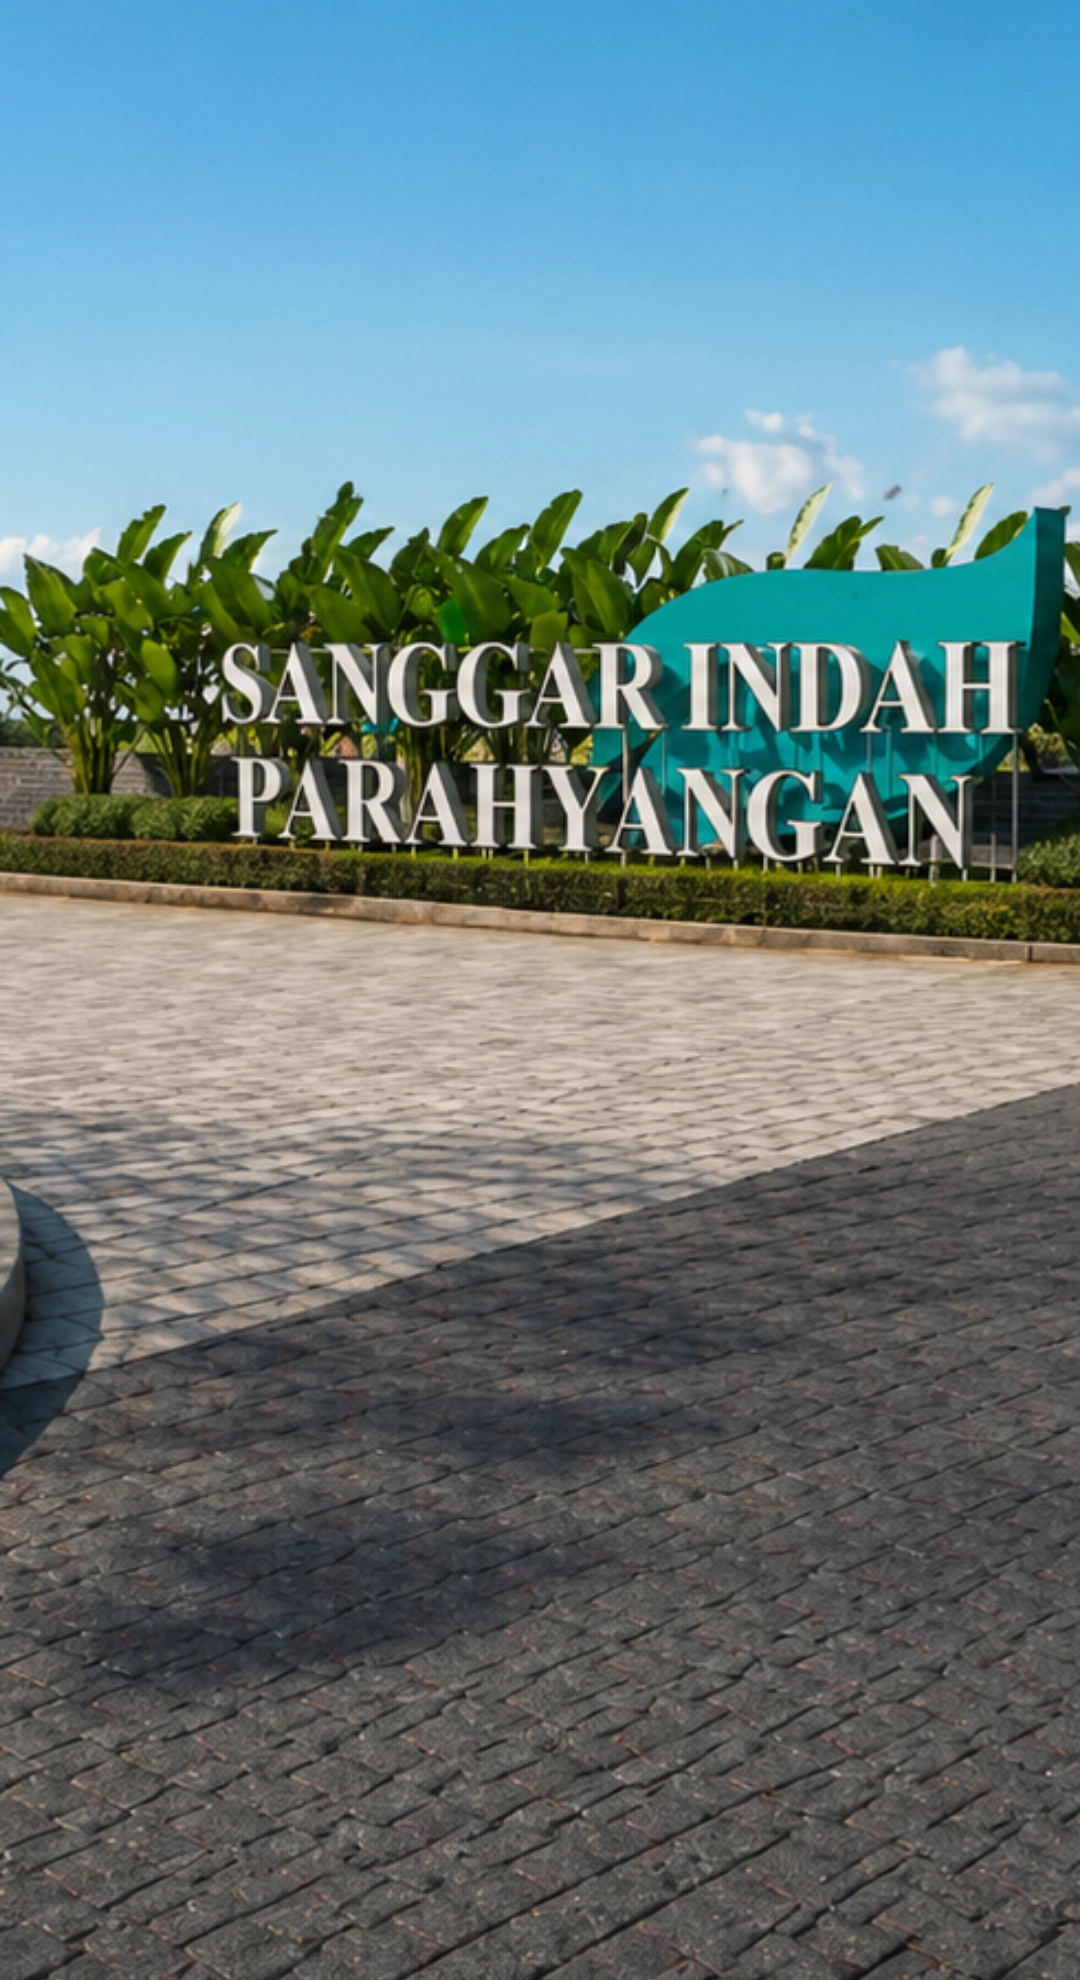
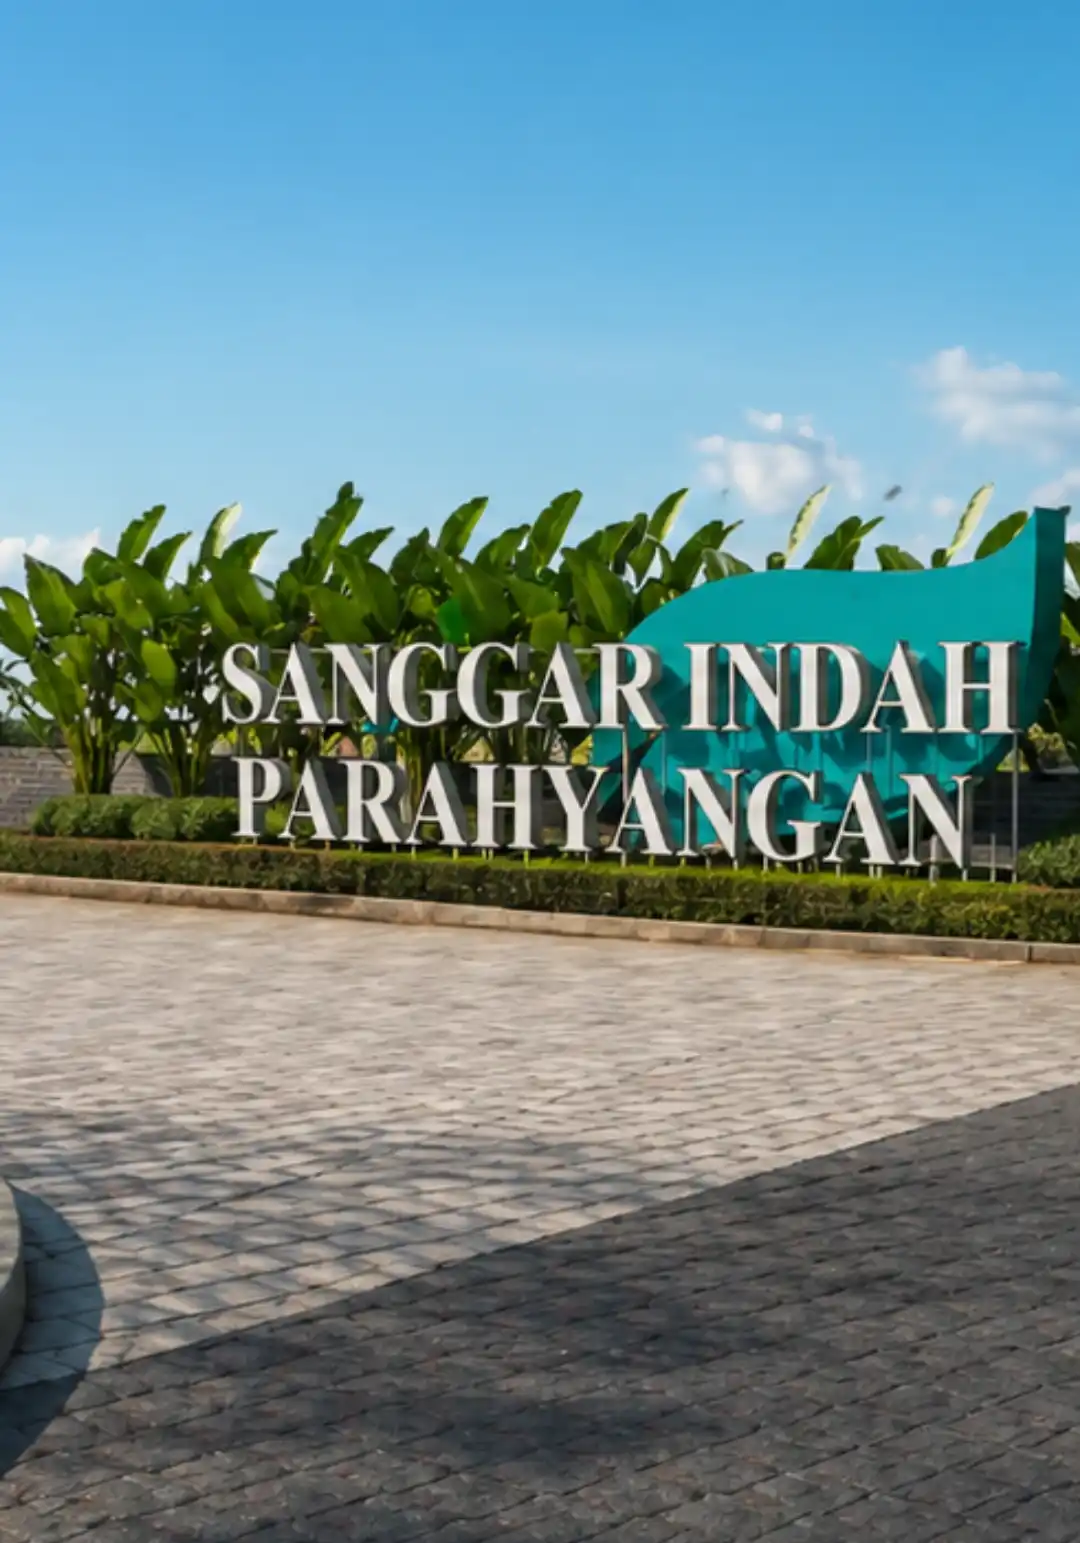
fix sesuatu

diff --git a/data/content.js b/data/content.js
@@ -50,6 +50,9 @@ export default {
     sub: 'Nikmati kenyamanan tinggal di hunian nyaman yang berada di lingkungan asri dan sejuk, dengan lokasi strategis di jantung pertumbuhan Bandung Barat',
     primaryTypeId: '22-60',
     primaryCta: 'Lihat Tipe Rumah',
+    image: '/assets/images/hero.webp',
+    imageMobile: '/assets/images/hero-mobile.webp',
+    heroMobile: '/assets/images/hero-mobile.webp',
   },
 
   about: {
@@ -113,12 +116,10 @@ export default {
 
   // Merged advantages: Reasons + Location + Invest + Demand
   advantages: [
-    { id: 'loc1', title: 'Dekat Kota Baru Parahyangan', desc: '', image: '/assets/images/fasilitas/KBP.webp' },
-    { id: 'loc2', title: 'Dekat Tol Padalarang', desc: '', image: '/assets/images/fasilitas/Gerbang-Tol-Padalarang-Timur.webp' },
-    { id: 'loc3', title: 'Dekat Stasiun KCIC', desc: '', image: '/assets/images/fasilitas/Stasiun KCIC.webp' },
-    { id: 'loc4', title: 'Dikelilingi Fasilitas Publik', desc: '', image: '/assets/images/fasilitas/IKEA KBP.webp' },
-    { id: 'inv1', title: 'Cicilan Flat', desc: '', image: '/assets/images/fasilitas/Cicilan Flat.webp' },
-    { id: 'inv2', title: 'One Gate System', desc: '', image: '/assets/images/signgate.webp' },
+    { id: 'loc1', title: 'Dekat KBP', desc: '', image: '/assets/images/fasilitas/logo kbp.webp' },
+    { id: 'loc2', title: 'Dekat Tol Padalarang', desc: '', image: '/assets/images/fasilitas/logo tol.webp' },
+    { id: 'loc3', title: 'Dekat WOOSH', desc: '', image: '/assets/images/fasilitas/logo woosh.webp' },
+    { id: 'loc4', title: '', desc: '', image: '/assets/images/fasilitas/logo fasilitas.webp' },
   ],
 
   // Merged stats: key numbers from Demand + Installment
@@ -126,6 +127,11 @@ export default {
     { id: 's1', stat: '15 mnt', title: 'Ke KBP & IKEA', desc: 'Berdampingan dengan kawasan hunian & bisnis yang terus tumbuh.' },
     { id: 's2', stat: '30 mnt', title: 'Ke Stasiun Whoosh', desc: 'Kehadiran KCIC mempercepat kenaikan nilai properti.' },
     { id: 's3', stat: '1 Jt-an', title: 'Cicilan Flat', desc: 'Rasa komersial, harga subsidi mulai 1 jutaan/bulan.' },
+  ],
+
+  banks: [
+    { name: 'BCA', image: '/assets/images/bank/bca.webp' },
+    { name: 'BTN', image: '/assets/images/bank/btn.webp' },
   ],
 
   locationSection: {
@@ -148,17 +154,9 @@ export default {
     { id: 'f1',  question: 'Siapa pengembang Sanggar Indah Parahyangan?', answer: 'Dikembangkan oleh PT Sanggar Duta Parahyangan, bagian dari Sanggar Indah Group yang telah berpengalaman lebih dari 30 tahun di bidang properti, dan terdaftar sebagai anggota Real Estate Indonesia (REI).' },
     { id: 'f2',  question: 'Penghargaan apa saja yang pernah diraih pengembang?', answer: '[Isi jawaban di sini — tim SIPAR perlu melengkapi daftar penghargaan resmi, karena tidak ditemukan publikasinya secara online]' },
     { id: 'f3',  question: 'Proyek apa saja yang sudah dibangun oleh pengembang ini?', answer: '[Isi jawaban di sini — tim SIPAR perlu melengkapi daftar proyek sebelumnya, karena portofolio lengkap tidak ditemukan publikasinya secara online]' },
-    { id: 'f4',  question: 'Berapa harga rumah di Sanggar Indah Parahyangan?', answer: 'Mulai dari 160 Jt-an untuk Tipe 22/60 hingga 300 Jt-an untuk Tipe 36/72, dengan cicilan flat mulai 1 jutaan per bulan.' },
-    { id: 'f5',  question: 'Berapa uang muka (DP) yang dibutuhkan?', answer: 'DP ringan dan bisa disesuaikan dengan kemampuan, tim kami bantu hitungkan skema yang paling cocok untuk Anda.' },
     { id: 'f6',  question: 'Bagaimana skema cicilannya?', answer: 'Cicilan flat sepanjang tenor tanpa naik-turun, sehingga lebih mudah direncanakan untuk keuangan keluarga.' },
     { id: 'f7',  question: 'Apakah bisa KPR meski belum punya slip gaji tetap?', answer: '[Isi jawaban di sini — perlu konfirmasi tim terkait jalur pengajuan untuk pekerja informal/wiraswasta]' },
-    { id: 'f8',  question: 'Bank apa yang bekerja sama untuk KPR?', answer: '[Isi jawaban di sini — perlu konfirmasi tim terkait daftar bank rekanan KPR yang aktif]' },
-    { id: 'f9',  question: 'Bagaimana cara mengajukan pembelian?', answer: 'Konsultasi kebutuhan lewat WhatsApp, survei lokasi, lalu lanjut ke proses booking dan pengajuan KPR bersama tim kami.' },
-    { id: 'f10', question: 'Jenis sertifikat rumahnya apa?', answer: '[Isi jawaban di sini — perlu konfirmasi tim terkait jenis sertifikat yang diterbitkan, mis. SHM]' },
-    { id: 'f11', question: 'Berapa lama proses dari booking sampai akad kredit?', answer: '[Isi jawaban di sini — perlu konfirmasi tim terkait estimasi waktu proses]' },
-    { id: 'f12', question: 'Kapan unit bisa ditempati setelah akad?', answer: '[Isi jawaban di sini — perlu konfirmasi tim terkait jadwal serah terima kunci]' },
-    { id: 'f13', question: 'Apakah lingkungan perumahan ini aman?', answer: 'Menerapkan One Gate System dengan akses masuk satu pintu, sehingga lingkungan lebih terkontrol dan nyaman untuk keluarga.' },
-    { id: 'f14', question: 'Apa saja fasilitas di sekitar perumahan?', answer: 'Dekat IKEA, XXI Cinema, rumah sakit, dan Parahyangan Golf, dengan akses ke Tol Padalarang dan Stasiun KCIC Whoosh.' },
+    { id: 'f8',  question: 'Apakah ada show unit/rumah contoh yang bisa dikunjungi?', answer: 'Ada' },
   ],
 
   finalCta: {

diff --git a/components/ReasonsCardsSection.vue b/components/ReasonsCardsSection.vue
@@ -2,29 +2,50 @@
   <section id="lokasi" class="relative bg-gradient-to-b from-white via-[#fffef5] to-white py-12 md:py-16">
     <div class="container mx-auto px-4 md:px-20">
       <!-- Part 1: Kenapa Harus -->
-      <h2 class="font-display font-semibold text-3xl md:text-4xl text-center text-[#142b20] mb-10">
-        Kenapa Harus Sanggar Indah Parahyangan?
-      </h2>
+      <div class="flex justify-center mb-10">
+        <img src="/assets/images/kenapa.webp" alt="Kenapa Sanggar Indah Parahyangan?"
+          class="h-auto w-[80%] sm:w-auto sm:max-w-xl md:max-w-2xl lg:max-w-3xl object-contain" />
+      </div>
 
-      <!-- Cards Grid with overlay text -->
-      <div class="grid grid-cols-2 md:grid-cols-3 lg:grid-cols-6 gap-4 mb-16">
-        <div v-for="(advantage, index) in content.advantages" :key="advantage.id" class="flex flex-col">
-          <!-- Image with overlay text -->
-          <div class="relative w-full aspect-square bg-gray-100 rounded-lg overflow-hidden group cursor-pointer">
-            <!-- Background Image -->
-            <img v-if="advantage.image" :src="advantage.image" :alt="advantage.title"
-              class="absolute inset-0 w-full h-full object-cover transition-transform duration-500 group-hover:scale-110" />
+      <!-- Cards & Mascot Section -->
+      <div class="flex flex-col lg:flex-row items-center justify-center gap-6 lg:gap-8 mb-16">
+        
+        <!-- Cards Grid -->
+        <div class="grid grid-cols-2 lg:grid-cols-4 gap-4 w-full flex-grow">
+          <div v-for="(advantage, index) in content.advantages" :key="advantage.id" 
+            class="group cursor-pointer bg-white rounded-3xl shadow-[0_8px_30px_rgb(0,0,0,0.06)] hover:shadow-[0_12px_35px_rgb(0,0,0,0.12)] hover:-translate-y-2 transition-all duration-300 ease-out p-4 md:p-6 flex flex-col items-center justify-between h-full border border-gray-50 overflow-hidden relative">
+            
+            <template v-if="advantage.title">
+              <!-- Image / Icon -->
+              <div class="w-20 h-20 md:w-28 md:h-28 mb-4 flex items-center justify-center">
+                <img v-if="advantage.image" :src="advantage.image" :alt="advantage.title"
+                  class="w-full h-full object-contain transition-transform duration-300 group-hover:scale-110" />
+              </div>
 
-            <!-- Solid overlay -->
-            <div class="absolute inset-0 bg-[#c9a84c]/30"></div>
+              <!-- Title -->
+              <div class="flex-grow flex items-center justify-center mb-4">
+                <h3 class="font-bold text-sm md:text-base text-center text-[#2A6D3A] leading-snug group-hover:text-[#1d4d29] transition-colors">
+                  {{ advantage.title }}
+                </h3>
+              </div>
 
-            <!-- Text overlay at center -->
-            <div class="absolute inset-0 flex items-center justify-center p-3">
-              <h3 class="font-bold text-xs md:text-sm text-center text-white leading-tight">
-                {{ advantage.title }}
-              </h3>
-            </div>
+              <!-- Bottom Dash -->
+              <div class="w-6 h-1 bg-[#F59E0B] rounded-full mt-auto transition-all duration-300 group-hover:w-10"></div>
+            </template>
+            
+            <template v-else>
+              <!-- Fit Image -->
+              <div class="w-full h-full flex items-center justify-center my-auto p-2">
+                <img v-if="advantage.image" :src="advantage.image" alt="Fasilitas"
+                  class="max-w-full max-h-full object-contain transition-transform duration-300 group-hover:scale-105" />
+              </div>
+            </template>
           </div>
+        </div>
+
+        <!-- Mascot -->
+        <div class="w-32 sm:w-40 md:w-48 lg:w-56 flex-shrink-0 mt-6 lg:mt-0 flex justify-center">
+          <img src="/assets/images/mascot.webp" alt="Maskot SIPAR" class="w-full h-auto drop-shadow-2xl" />
         </div>
       </div>
 
@@ -59,18 +80,7 @@
           </div>
         </div>
 
-        <!-- Title below image -->
-        <h2 class="font-display font-semibold text-3xl md:text-4xl text-center text-[#142b20] mt-8 mb-10">
-          {{ content.locationSection?.title || 'Lokasi di Pusat Pertumbuhan' }}
-        </h2>
 
-        <!-- Facilities List with borders -->
-        <div class="flex flex-wrap justify-center gap-x-8 gap-y-4 max-w-4xl mx-auto">
-          <div v-for="(facility, idx) in content.locationSection?.facilities || []" :key="idx"
-            class="w-full md:w-[calc(33.333%-1.35rem)] pb-4 border-b border-gray-200">
-            <p class="font-body text-sm uppercase tracking-wide text-gray-600">{{ facility }}</p>
-          </div>
-        </div>
       </div>
     </div>
 

diff --git a/components/WhatsAppFloatingButton.vue b/components/WhatsAppFloatingButton.vue
@@ -2,6 +2,7 @@
 import { ref, onMounted, onUnmounted } from 'vue';
 import { useContent } from '~/composables/useContent';
 import MemberGetMemberModal from './MemberGetMemberModal.vue';
+import KprTermsModal from './KprTermsModal.vue';
 
 const { wa } = useContent();
 const href = wa('konsultasi');
@@ -11,6 +12,8 @@ const isDesktop = ref(false);
 
 const isMenuOpen = ref(false);
 const isModalOpen = ref(false);
+const isKprModalOpen = ref(false);
+const kprModalTitle = ref('');
 
 const checkState = () => {
   if (typeof window === 'undefined') return;
@@ -27,6 +30,12 @@ const toggleMenu = () => {
 
 const openModal = () => {
   isModalOpen.value = true;
+  isMenuOpen.value = false;
+};
+
+const openKprModal = (title) => {
+  kprModalTitle.value = title;
+  isKprModalOpen.value = true;
   isMenuOpen.value = false;
 };
 
@@ -100,7 +109,31 @@ onUnmounted(() => {
             <span>Konsultasi Sekarang</span>
           </a>
 
-          <!-- Button 2: Isi Form Member Get Member -->
+          <!-- Button 2: Syarat KPR BCA -->
+          <button
+            type="button"
+            class="inline-flex items-center gap-2.5 font-body rounded-full bg-[#142B20] px-4 py-2.5 text-xs font-bold text-white shadow-lg hover:bg-[#0f1f17] transition-all whitespace-nowrap"
+            @click="openKprModal('Syarat KPR BCA')"
+          >
+            <svg class="w-4 h-4 fill-none stroke-current" viewBox="0 0 24 24" stroke="currentColor">
+              <path stroke-linecap="round" stroke-linejoin="round" stroke-width="2" d="M9 12h6m-6 4h6m2 5H7a2 2 0 01-2-2V5a2 2 0 012-2h5.586a1 1 0 01.707.293l5.414 5.414a1 1 0 01.293.707V19a2 2 0 01-2 2z" />
+            </svg>
+            <span>Syarat KPR BCA</span>
+          </button>
+
+          <!-- Button 3: Syarat KPR BTN -->
+          <button
+            type="button"
+            class="inline-flex items-center gap-2.5 font-body rounded-full bg-[#142B20] px-4 py-2.5 text-xs font-bold text-white shadow-lg hover:bg-[#0f1f17] transition-all whitespace-nowrap"
+            @click="openKprModal('Syarat KPR BTN')"
+          >
+            <svg class="w-4 h-4 fill-none stroke-current" viewBox="0 0 24 24" stroke="currentColor">
+              <path stroke-linecap="round" stroke-linejoin="round" stroke-width="2" d="M9 12h6m-6 4h6m2 5H7a2 2 0 01-2-2V5a2 2 0 012-2h5.586a1 1 0 01.707.293l5.414 5.414a1 1 0 01.293.707V19a2 2 0 01-2 2z" />
+            </svg>
+            <span>Syarat KPR BTN</span>
+          </button>
+
+          <!-- Button 4: Isi Form Member Get Member -->
           <button
             type="button"
             class="inline-flex items-center gap-2.5 font-body rounded-full bg-[#142B20] px-4 py-2.5 text-xs font-bold text-white shadow-lg hover:bg-[#0f1f17] transition-all whitespace-nowrap"
@@ -147,5 +180,13 @@ onUnmounted(() => {
     :is-open="isModalOpen"
     @close="isModalOpen = false"
   />
+
+  <!-- KPR Terms Modal -->
+  <KprTermsModal
+    :is-open="isKprModalOpen"
+    :title="kprModalTitle"
+    @close="isKprModalOpen = false"
+  />
 </template>
+
 

diff --git a/components/ProductsSection.vue b/components/ProductsSection.vue
@@ -27,12 +27,12 @@ function closeModal() {
       </h2>
 
       <!-- House Types Grid -->
-      <div class="grid grid-cols-1 md:grid-cols-3 gap-6 mb-16">
+      <div class="grid grid-cols-1 md:grid-cols-3 gap-6 mb-8">
         <div v-for="(t, index) in houseTypes" :key="t.id" class="flex flex-col h-full">
           <!-- Image - Rectangle aspect ratio, use 3D render -->
           <div class="w-full aspect-[4/3] bg-gray-100 rounded-lg mb-4 overflow-hidden">
-            <img v-if="t.thumbnail || (t.gallery && t.gallery.length)" :src="t.thumbnail || t.gallery[1] || t.gallery[0]" :alt="t.name"
-              class="w-full h-full object-cover" />
+            <img v-if="t.thumbnail || (t.gallery && t.gallery.length)"
+              :src="t.thumbnail || t.gallery[1] || t.gallery[0]" :alt="t.name" class="w-full h-full object-cover" />
           </div>
 
           <!-- Copy -->
@@ -54,34 +54,12 @@ function closeModal() {
           </a>
         </div>
       </div>
-
-      <!-- Spesifikasi Bangunan Section -->
-      <div class="mt-20">
-        <div class="flex flex-col md:flex-row md:items-start justify-between mb-10 gap-6">
-          <div class="md:w-1/2">
-            <p class="font-body text-[#c9a84c] text-xs font-bold tracking-widest uppercase mb-3">Quality Assurance</p>
-            <h2 class="font-display font-semibold text-3xl md:text-4xl lg:text-5xl text-[#142b20]">
-              Spesifikasi Bangunan
-            </h2>
-          </div>
-          <div class="md:w-1/2 md:max-w-md pt-2">
-            <p class="font-body text-gray-600 text-sm md:text-base leading-relaxed">
-              Kami menggunakan material pilihan yang telah teruji untuk menjamin kekuatan dan durabilitas rumah Anda.
-            </p>
-          </div>
-        </div>
-
-        <!-- Specs Grid -->
-        <div class="grid grid-cols-2 md:grid-cols-3 border-t border-l border-gray-200/60 bg-white">
-          <div v-for="(spec, index) in content.defaultSpecs" :key="spec.label"
-            class="p-4 md:p-8 border-r border-b border-gray-200/60 flex flex-col justify-center"
-            :class="index === content.defaultSpecs.length - 1 ? 'col-span-2 md:col-span-1' : ''">
-            <p class="font-body text-[10px] md:text-xs font-bold text-[#c9a84c] uppercase tracking-widest mb-1 md:mb-2">
-              {{ spec.label }}</p>
-            <p class="font-display text-sm sm:text-base md:text-xl text-[#142b20]">{{ spec.value }}</p>
-          </div>
-        </div>
+      <div class="text-center">
+        <h2 class="font-display font-semibold text-3xl md:text-4xl text-center text-[#142b20] mb-10">
+          Harga mulai dari 160jt-an s/d 300jt-an
+        </h2>
       </div>
+
     </div>
 
     <HouseTypeModal :type="modalOpen ? selectedType : null" @close="closeModal" />

diff --git a/components/KprTermsModal.vue b/components/KprTermsModal.vue
@@ -1,0 +1,84 @@
+<script setup>
+import { ref, onMounted, onUnmounted, watch } from 'vue';
+
+const props = defineProps({
+  isOpen: { type: Boolean, default: false },
+  title: { type: String, default: '' }
+});
+
+const emit = defineEmits(['close']);
+
+const dialogRef = ref(null);
+
+function onKeydown(e) {
+  if (e.key === 'Escape') emit('close');
+}
+
+onMounted(() => document.addEventListener('keydown', onKeydown));
+onUnmounted(() => document.removeEventListener('keydown', onKeydown));
+
+watch(() => props.isOpen, (open) => {
+  if (open) {
+    dialogRef.value?.focus();
+  }
+});
+</script>
+
+<template>
+  <Transition
+    enter-active-class="transition duration-200 ease-out"
+    enter-from-class="opacity-0"
+    enter-to-class="opacity-100"
+    leave-active-class="transition duration-150 ease-in"
+    leave-from-class="opacity-100"
+    leave-to-class="opacity-0"
+  >
+    <div
+      v-if="isOpen"
+      class="fixed inset-0 z-50 flex items-center justify-center overflow-y-auto bg-black/50 p-4"
+      @click.self="emit('close')"
+    >
+      <Transition
+        enter-active-class="transition duration-200 ease-out"
+        enter-from-class="scale-95 opacity-0"
+        enter-to-class="scale-100 opacity-100"
+        leave-active-class="transition duration-150 ease-in"
+        leave-from-class="scale-100 opacity-100"
+        leave-to-class="scale-95 opacity-0"
+      >
+        <div
+          ref="dialogRef"
+          role="dialog"
+          aria-modal="true"
+          :aria-label="title"
+          tabindex="-1"
+          class="relative w-full max-w-4xl rounded-3xl bg-white p-6 md:p-8 shadow-2xl focus:outline-none min-h-[300px]"
+        >
+          <!-- Close Button -->
+          <button
+            type="button"
+            aria-label="Tutup"
+            class="absolute right-5 top-5 flex h-9 w-9 items-center justify-center rounded-full bg-[#EBF2ED] text-emerald-900 transition-colors hover:bg-emerald-100"
+            @click="emit('close')"
+          >
+            <svg class="w-5 h-5 stroke-current" fill="none" viewBox="0 0 24 24" stroke="currentColor">
+              <path stroke-linecap="round" stroke-linejoin="round" stroke-width="2" d="M6 18L18 6M6 6l12 12" />
+            </svg>
+          </button>
+
+          <!-- Header -->
+          <div class="pr-10 border-b border-gray-100 pb-4">
+            <h3 class="font-display text-2xl md:text-3xl font-bold text-[#142B20]">
+              {{ title }}
+            </h3>
+          </div>
+
+          <!-- Body Content (Empty for now) -->
+          <div class="mt-6">
+            <!-- Konten syarat KPR biarkan kosong -->
+          </div>
+        </div>
+      </Transition>
+    </div>
+  </Transition>
+</template>

diff --git a/components/HeroSection.vue b/components/HeroSection.vue
@@ -7,8 +7,14 @@ const { content } = useContent();
 
 <template>
   <section class="relative h-full min-h-[300px] lg:h-[calc(100vh-64px)] lg:min-h-[600px] overflow-hidden">
-    <!-- Background Image -->
-    <div class="absolute inset-0 bg-[url('/assets/images/hero.webp')] bg-cover bg-center"></div>
+    <!-- Background Image Desktop -->
+    <div class="hidden md:block absolute inset-0 bg-cover bg-center"
+      :style="{ backgroundImage: `url(${content.hero.image || '/assets/images/hero.webp'})` }"></div>
+
+    <!-- Background Image Mobile -->
+    <div class="block md:hidden absolute inset-0 bg-cover bg-center"
+      :style="{ backgroundImage: `url(${content.hero.imageMobile || content.hero.heroMobile || '/assets/images/hero-mobile.webp'})` }">
+    </div>
 
     <!-- Dimmer overlay - hijau gelap base -->
     <div class="absolute inset-0 bg-[#142b20]/60"></div>
@@ -18,6 +24,13 @@ const { content } = useContent();
 
     <!-- Content Container -->
     <div class="relative h-full flex flex-col justify-between px-4 md:px-20 py-6 sm:py-10 lg:py-20">
+      <!-- Bank Logos -->
+      <div
+        class="absolute top-6 right-4 sm:top-10 sm:right-20 lg:top-20 flex items-center gap-3 sm:gap-5 z-10 bg-white/40 px-3 py-2 sm:px-4 sm:py-3 lg:px-6 lg:py-4 rounded-xl sm:rounded-2xl border-2 border-[#c9a84c]/50 shadow-xl">
+        <img v-for="bank in content.banks" :key="bank.name" :src="bank.image" :alt="bank.name"
+          class="h-5 sm:h-5 md:h-6 lg:h-12 object-contain" />
+      </div>
+
       <!-- Top Content: Title & Tagline -->
       <div class="sm:max-w-[600px] lg:max-w-[80%]">
         <!-- Headline - Kuning -->
